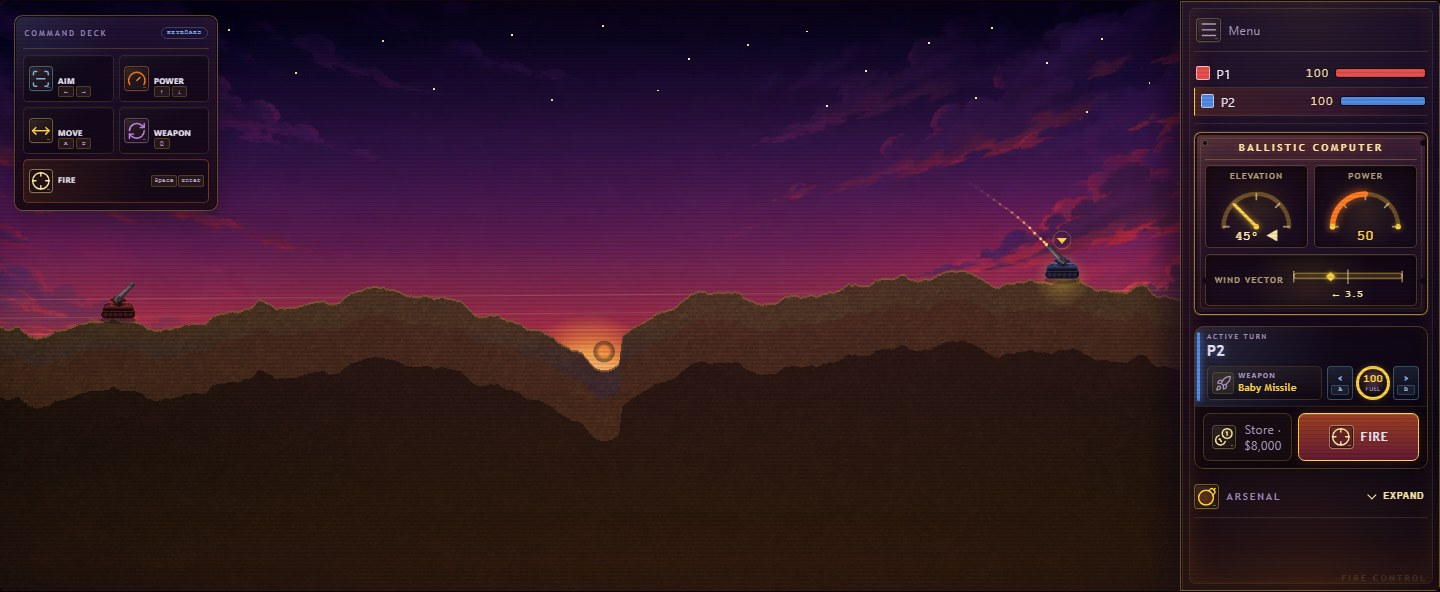
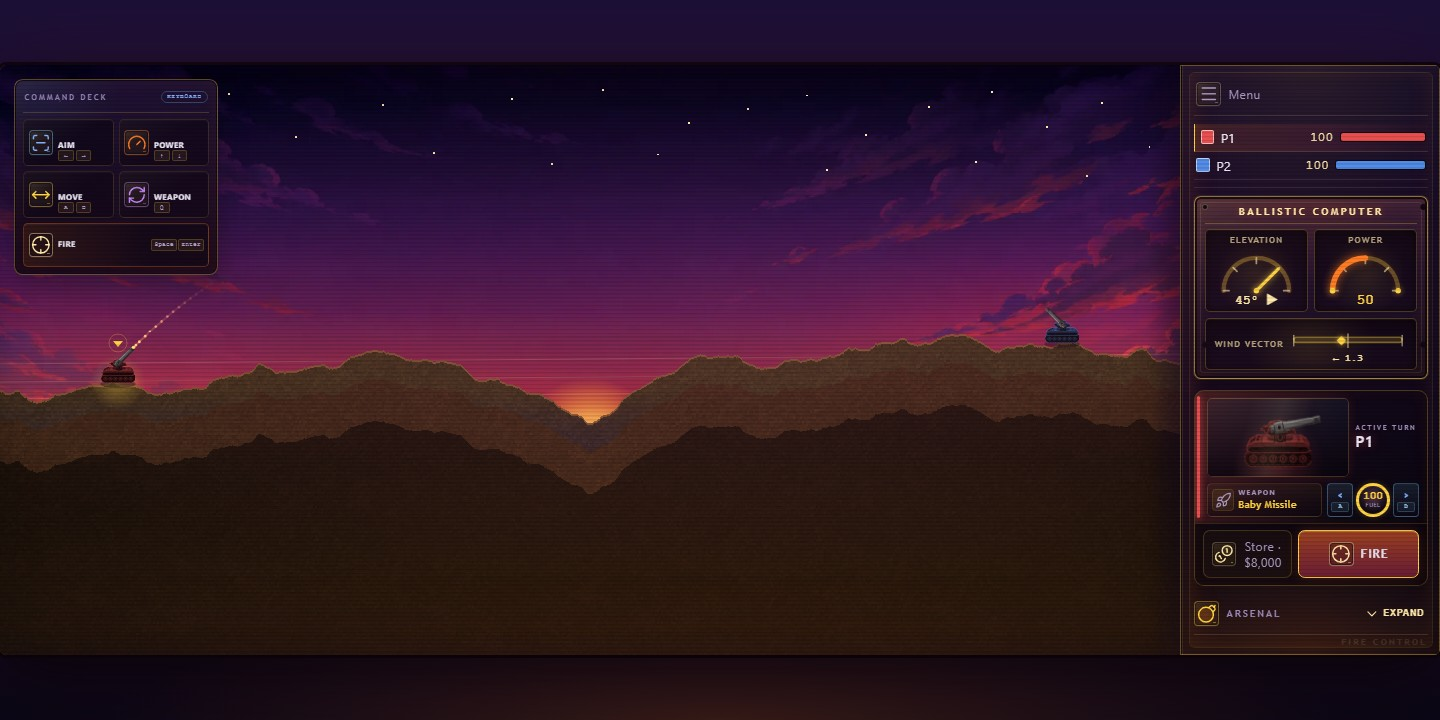
docs(readme): refresh live gameplay capture (#254)
Refresh the public gameplay screenshot from the exact deployed combat HUD and document its provenance-backed verification.

diff --git a/.codearbiter/sprint-log.md b/.codearbiter/sprint-log.md
@@ -2962,3 +2962,34 @@ Spec/plan: `.codearbiter/specs/opening-salvo-assist.md`, `.codearbiter/plans/ope
 
 - **[high] Behavior head cleared hosted CI.** PR #253 head `c323a10` passed CodeQL, CodeQL analysis, typecheck/harness/build, Edge, E2E, and CodeRabbit status; Supabase Preview was intentionally skipped. Confidence high.
 - **[high] Merge pause override logged.** The maintainer's standing passion-project authority authorizes a PR-only merge after this governance receipt receives exact adversarial review and every hosted check is green on the resulting final head. Direct default-branch writes and force-push remain prohibited. Confidence high.
+
+## 2026-08-01 - Live Gameplay README Capture
+
+### SMARTS selection and standing approval
+
+- **[high] Refresh the public gameplay capture instead of inventing another unproven runtime effect.** The live visual scout showed the current combat HUD is coherent and the apparent Arsenal clipping was false at measured crop. The README screenshot is objectively behind PR #253 and is a direct player-acquisition surface. This scores strong for Specific, Maintainable, Available, Reliable, Testable, and Securable while changing no gameplay contract. Confidence high.
+- **[high] Capture the exact deployed build at the existing 1440x720 documentation frame.** Reusing the established production hot-seat entrypoint and removing only the splash produces truthful, reproducible evidence without a localhost or production mutation. Confidence high.
+- **[high] Keep the chore to one raster replacement plus accurate alternative text.** The narrow surface is independently reviewable and avoids mixing stale-task or gameplay work after live evidence disproved both initial candidates. Confidence high.
+- **Approval gate:** the maintainer's standing passion-project authority is recorded in one sprint-specific append-only override covering this design, exact six-file surface, spec, and plan only. All hard gates, adversarial review, exact-head CI, PR-only merge, and deployment verification remain active. Confidence high.
+
+### Capture and verification
+
+- **Production provenance proven.** `deploy-meta.json` returned SHA `7eb0bb0bf86d2990a80fe07e361c72434d34f3d8` and run `30718311899`, matching the successful PR #253 Pages deployment. Confidence high.
+- **Capture contract proven.** An ephemeral Chromium context loaded the production `?e2e=hotseat` entrypoint at 1440x720, removed the splash, dismissed the First Salvo coach through its real Skip control, waited for the typed 144x80 tactical canvas and authored preview signature, and found zero viewport violations across `#app`, `#game`, `#hud`, and the portrait. Confidence high.
[1 lines of base64/hex data omitted]
+- **Visual inspection green.** The frame shows the full fitted battlefield, both tanks, honest short trajectory hint, Command Deck, player status, ballistic computer, larger crisp custom-tank identity portrait with aligned barrel, movement fuel, Store, Fire, and collapsed Arsenal. No splash, tutorial, modal, scroll bar, or clipped surface is visible. Confidence high.
+- **Repository gates green.** `npm run check` passed strict typecheck and all 60 deterministic harnesses; `npm run build` passed; all 12 local README links/assets resolve; the state-free secret scan returned `[]`; `git diff --check` passed. `npm ci` installed only the existing lockfile and audited 145 packages with zero vulnerabilities; manifests and lockfile are unchanged. Confidence high.
+- **Read-only preview report.** Changed surface is the two append-only logs, README, one JPEG, and the new spec/plan. The path matrix predicts no specialist reviewer because there is no source, security, dependency, migration, or architecture path; the standing sprint still requires one generic adversarial documentation/visual review. Confidence high.
+
+### Adversarial clearance
+
+- **Exact-package verdict CLEAN / READY.** The reviewer found no Critical, High, Medium, Low, or merge blocker. It independently verified the exact six-file surface; successful deployment run `30718311899` on SHA `7eb0bb0bf86d2990a80fe07e361c72434d34f3d8`; 1440x720 24-bit JPEG integrity, 138,142-byte size, and expected SHA-256; full production composition with a crisp enlarged portrait and aligned barrel; absence of splash/tutorial/modal/scroll/clipping; truthful README alternative text; no runtime/dependency/lockfile/workflow/backend/issue/task-tracker drift; byte-exact normalized protected-log prefixes; and clean diff hygiene. Confidence high.
+
+### Capture-scope correction
+
+- **[high] Clarify the final ephemeral-browser interaction.** The initial SMARTS note described removing only the splash. The accepted final capture also dismissed the one-time First Salvo coach through its real Skip control inside the disposable browser context, as the spec, plan, capture evidence, and visual result record. No game state, durable user browser state, source, or production data changed. Confidence high.
+
+### PR #254 hosted gate and merge override
+
+- **[high] Behavior head cleared hosted CI.** PR #254 head `69fce088e5b9729bc6899cfefb480efdc8186e7a` passed CodeQL, CodeQL analysis, typecheck/harness/build, Edge, rendering E2E, and CodeRabbit status; Supabase Preview was intentionally skipped. Confidence high.
+- **[high] Merge pause override logged.** The maintainer's standing passion-project authority authorizes a PR-only squash merge after this governance receipt receives exact adversarial review and every hosted check is green on the resulting final head. Direct default-branch writes and force-push remain prohibited. Confidence high.

diff --git a/.codearbiter/specs/live-gameplay-readme-capture.md b/.codearbiter/specs/live-gameplay-readme-capture.md
@@ -1,0 +1,37 @@
+# Live Gameplay README Capture Spec
+
+**Type:** documentation and visual-asset chore
+**Approval:** maintainer standing passion-project sprint authority, logged per sprint
+
+## Goal
+
+Make the repository landing page show the exact current production game, including the enlarged active-tank identity card shipped in PR #253, instead of an older combat screenshot.
+
+## Behavior contract
+
+- Capture the deployed GitHub Pages build at the standard 1440x720 documentation viewport through the deterministic hot-seat entrypoint.
+- Dismiss the splash overlay used by the existing live-smoke path and the one-time First Salvo coach through its real Skip control in an ephemeral browser context; do not mutate game state, durable user browser state, source, or production data.
+- Preserve the full battlefield, Command Deck, ballistic computer, player status, active-turn portrait, movement fuel, Store, Fire, and collapsed Arsenal in one fitted frame.
+- Replace `docs/assets/gameplay-command-rail.jpg` with an optimized JPEG derived from that production capture.
+- Update the README alternative text so it describes the current active custom-tank portrait as well as the combat instruments.
+- Do not change runtime code, tests, dependencies, lockfiles, backend, auth, crypto, migrations, workflows, issues, or task trackers.
+
+## Approved surface
+
+| File | Purpose |
+| --- | --- |
+| `.codearbiter/overrides.log` | Append the sprint-specific standing approval and later merge receipt. |
+| `.codearbiter/sprint-log.md` | Append SMARTS, capture, verification, review, and hosted receipts. |
+| `.codearbiter/specs/live-gameplay-readme-capture.md` | This approved contract. |
+| `.codearbiter/plans/live-gameplay-readme-capture.md` | Governed execution plan. |
+| `docs/assets/gameplay-command-rail.jpg` | Current production gameplay capture. |
+| `README.md` | Accurate descriptive alternative text for the refreshed capture. |
+
+## Acceptance
+
+1. The capture comes from the exact deployed merge SHA `7eb0bb0bf86d2990a80fe07e361c72434d34f3d8`, whose Pages provenance and live smoke passed.
+2. The JPEG is exactly 1440x720, visually crisp, bounded in size, and shows the complete single-page combat layout without splash, scrollbars, clipping, modals, or open overlays.
+3. The active custom-tank portrait is visibly larger than in the replaced image and its barrel remains aligned inside the card.
+4. README links and image loading remain valid; Markdown hygiene, build, secret scan, and diff checks pass.
+5. One adversarial reviewer returns CLEAN / READY after every Critical, High, Medium, and merge blocker is corrected.
+6. Delivery uses a PR, exact-head hosted CI, separately logged merge receipt, fresh final-head CI, squash merge, Pages provenance, and live smoke.

diff --git a/.codearbiter/plans/live-gameplay-readme-capture.md b/.codearbiter/plans/live-gameplay-readme-capture.md
@@ -1,0 +1,30 @@
+# Live Gameplay README Capture Plan
+
+**Goal:** Refresh the public repository hero with an exact, current production gameplay frame.
+
+**Architecture:** Treat the screenshot as a documentation artifact. Capture the already-deployed deterministic hot-seat view in an ephemeral browser, dismiss its splash and one-time coach through existing UI, validate dimensions and visible HUD landmarks, optimize without altering composition, and change only its README description.
+
+## Constraints
+
+- Approved six-file surface only.
+- No runtime, test, dependency, lockfile, backend, auth, crypto, migration, workflow, issue, or task-tracker change.
+- Do not launch a localhost; production is already proven at the target SHA.
+- Do not alter production data or persist browser state.
+
+### Task 1: Baseline and capture
+
+- [x] Record the replaced asset hash, dimensions, and visible stale portrait state.
+- [x] Capture production at 1440x720 through `?e2e=hotseat` after dismissing the splash and one-time coach.
+- [x] Optimize to bounded JPEG size and update the README alternative text.
+
+### Task 2: Verify
+
+- [x] Prove exact dimensions, valid decode, bounded file size, and README reference.
+- [x] Inspect the rendered artifact for full single-page composition, current tactical portrait, barrel alignment, and absence of overlays/clipping.
+- [x] Pass build, Markdown/link hygiene, secret scan, and diff gates.
+
+### Task 3: Review and deliver
+
+- [x] Clear one adversarial review with every Critical/High/Medium/merge blocker corrected.
+- [ ] Commit, PR, exact-head CI, logged merge authority, fresh final-head CI, squash merge, Pages provenance, and live smoke.
+- [ ] Immediately select the next highest-value safe cell under the standing goal.

diff --git a/README.md b/README.md
@@ -34,7 +34,7 @@ through public and private Supabase rooms. Computer seats use the same
 deterministic physics as human players.
 
 <p align="center">
-  <img src="docs/assets/gameplay-command-rail.jpg" width="1200" alt="A live singedTerra match with the command deck, ballistic computer, destructible terrain, and tactical rail." />
+  <img src="docs/assets/gameplay-command-rail.jpg" width="1200" alt="A live singedTerra match with the command deck, ballistic computer, destructible terrain, and an enlarged active custom-tank portrait in the tactical rail." />
 </p>
 
 ## The battlefield changes every turn
